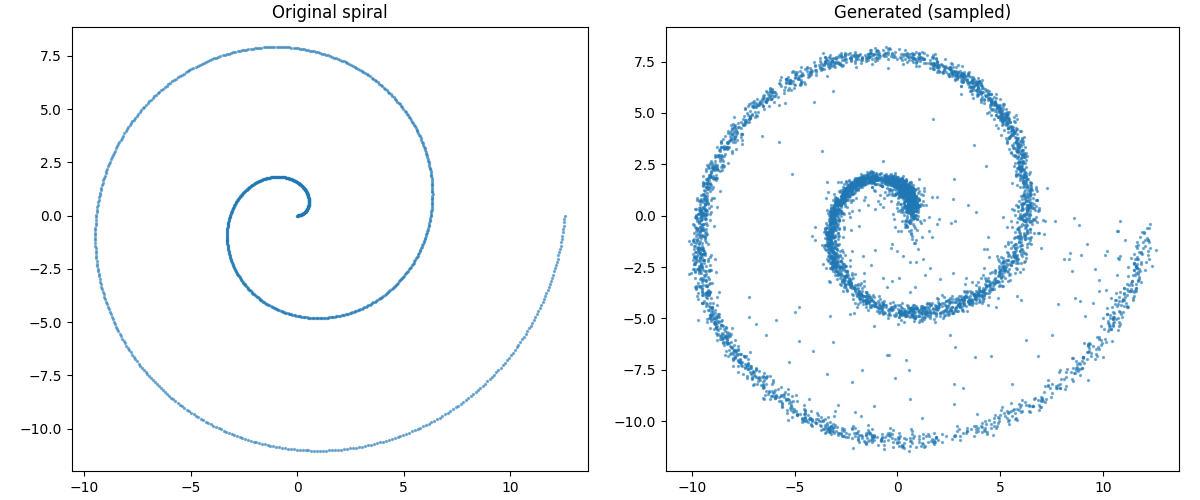
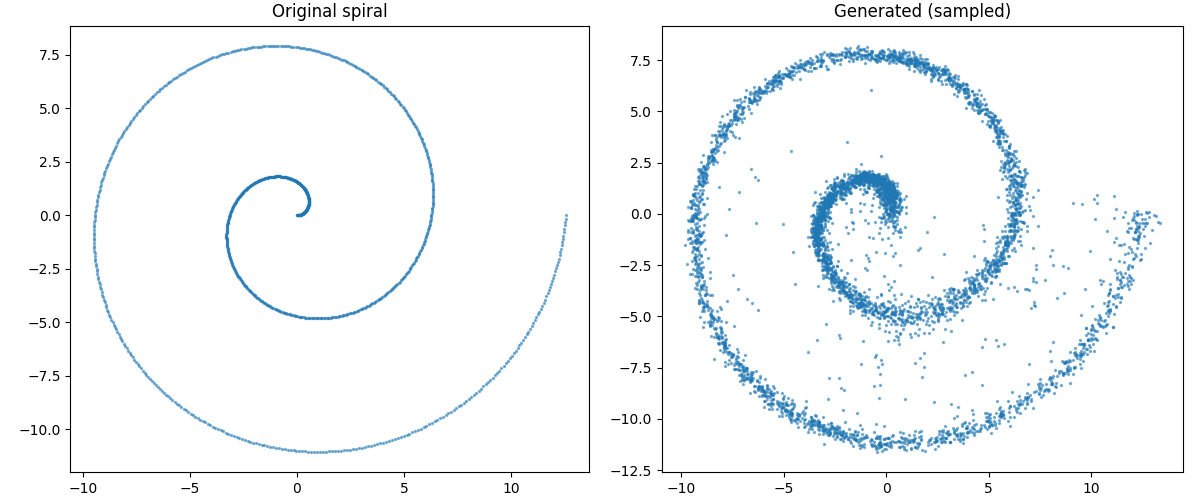
MNIST diffusion added

diff --git a/diffusion_MNIST/main.py b/diffusion_MNIST/main.py
@@ -1,0 +1,153 @@
+import torch 
+from torch.utils.data import DataLoader
+import torchvision
+from torchvision import transforms
+import torch.nn as nn
+import torch.nn.functional as F
+import math
+import matplotlib.pyplot as plot
+
+device = 'cuda' if torch.cuda.is_available() else 'mps' if torch.backends.mps.is_available() else 'cpu'
+
[email redacted]_grad()
+def sample(model, alpha_bars, T = 1000,num_samples = 10):
+    betas = torch.linspace(0.0001, 0.02, T).to(device)
+    alphas = 1.0 - betas
+    x_t = torch.randn(size=(num_samples,1,28,28)).to(device)
+
+    for t in reversed(range(T)):
+        t_batch = torch.full((num_samples,), t, dtype=torch.long).to(device)
+        eps_pred = model(x_t, t_batch)
+        z = torch.randn_like(x_t) if t > 0 else 0
+        x_t = (1/torch.sqrt(alphas[t])) * (x_t - (betas[t]/torch.sqrt(1 - alpha_bars[t])) * eps_pred) + torch.sqrt(betas[t]) * z
+
+    return x_t
+
+
+def sinusoidal_embedding(t, dim=32):
+    half_dim = dim // 2
+    freqs = torch.exp(-math.log(10000) * torch.arange(half_dim) / half_dim).to(device)
+    args = t[:, None] * freqs[None, :]
+    return torch.cat([torch.sin(args), torch.cos(args)], dim=-1)
+
+def forward_diffusion(x_0, t, alpha_bars): # for each batch
+    """
+    Add noise to x_0 at timestep t.
+    Returns: x_t (noised data), epsilon (the noise that was added)
+    alpha_bars -> [B]
+    """
+    # Use the formula: x_t = sqrt(alpha_bar_t) * x_0 + sqrt(1 - alpha_bar_t) * eps
+    epsilon = torch.randn_like(x_0) # B, 1, 28, 28
+    x_t = torch.sqrt(alpha_bars[t][:, None, None, None]) * x_0 + torch.sqrt(1 - alpha_bars[t][:, None,None,None]) * epsilon
+    return x_t, epsilon
+
+def get_noise_schedule(T=1000):
+    """Return alpha_bar for each timestep 0..T-1"""
+    betas = torch.linspace(0.0001, 0.02, T)
+    alphas = 1.0 - betas
+    alpha_bars = torch.cumprod(alphas, dim=0).to(device)
+    return alpha_bars
+
+class SimpleUNet(nn.Module):
+    def __init__(self, time_emb_dim=32):
+        super().__init__()
+        self.ec1 = nn.Conv2d(1 , 32, 3, stride=2, padding=1)
+        self.ec2 = nn.Conv2d(32, 64, 3, stride=2, padding=1)
+        self.bottleneck = nn.Conv2d(64,64,3, padding=1)
+        self.dec1 = nn.ConvTranspose2d(128,32, 4, stride = 2, padding = 1) # because of skip connections
+        self.dec2 = nn.ConvTranspose2d(64 ,1 , 4, stride = 2, padding = 1) # because of skip connections
+        self.time_mlp_64 = nn.Sequential(
+            nn.Linear(time_emb_dim, 64),
+            nn.ReLU(),
+            nn.Linear(64, 64)
+        )
+        self.time_mlp_32 = nn.Sequential(
+            nn.Linear(time_emb_dim, 32),
+            nn.ReLU(),
+            nn.Linear(32, 32)
+        )
+
+    def forward(self,x,t):
+        emb = sinusoidal_embedding(t)
+        t_emb_32 = self.time_mlp_32(emb)
+        t_emb_64 = self.time_mlp_64(emb)
+        x1 = F.relu(self.ec1(x) + t_emb_32[:,:,None,None])
+        x2 = F.relu(self.ec2(x1) + t_emb_64[:,:,None,None])
+        x3 = F.relu(self.bottleneck(x2) + t_emb_64[:,:,None,None])
+        x4 = F.relu(self.dec1(torch.cat([x3,x2],dim=1)) + t_emb_32[:,:,None,None])
+        x5 = self.dec2(torch.cat([x4,x1],dim=1))
+        return x5
+
+if __name__ == '__main__':
+    dataset = torchvision.datasets.MNIST(
+        root='./data', train=True, download=True,
+        transform=transforms.Compose([
+        transforms.ToTensor(),
+        transforms.Normalize((0.5,), (0.5,))
+  ])
+        
+    )
+    dataloader = DataLoader(dataset, batch_size=128, shuffle=True, num_workers=4, pin_memory=True)
+    alpha_bars = get_noise_schedule()
+
+    # images, labels = next(iter(dataloader))
+
+    # Visualize forward diffusion on 3 images across 5 timesteps
+    # timesteps = [0, 10, 50, 100, 150, 199]
+    # num_images = 3
+    # fig, axes = plot.subplots(num_images, len(timesteps), figsize=(15, 9))
+
+    # for row in range(num_images):
+    #     img = images[row]  # [1, 28, 28]
+    #     for col, t in enumerate(timesteps):
+    #         t_tensor = torch.tensor([t])
+    #         x_t, _ = forward_diffusion(img.unsqueeze(0), t_tensor, alpha_bars)
+    #         axes[row, col].imshow(x_t.squeeze().numpy(), cmap='gray')
+    #         axes[row, col].set_title(f't={t}')
+    #         axes[row, col].axis('off')
+
+    # plot.tight_layout()
+    # plot.savefig('diffusion_MNIST/forward_diffusion.png')
+    # plot.show()
+
+    model = SimpleUNet().to(device)
+    optimizer = torch.optim.Adam(model.parameters(), lr = 2e-4)
+    num_epochs = 50
+
+    for epoch in range(num_epochs):
+        total_loss = 0
+        for batch, _ in dataloader:
+            batch = batch.to(device)
+            t = torch.randint(0,999,size = (len(batch),)).to(device)
+            x_t, epsilon = forward_diffusion(batch, t, alpha_bars)
+            epsilon_pred = model(x_t, t)
+            loss = F.mse_loss(epsilon_pred, epsilon)
+            total_loss += loss.item()
+            optimizer.zero_grad(set_to_none=True)
+            loss.backward()
+            optimizer.step()
+
+        if(epoch % 1 == 0) :
+                print(f"Epoch : {epoch} | Loss: {total_loss / len(dataloader)}")
+
+        # generate and plot
+    generated = sample(model, alpha_bars).cpu()  # [10, 1, 28, 28]
+
+    fig, axes = plot.subplots(1, 10, figsize=(20, 2))
+    for i in range(10):
+        axes[i].imshow(generated[i, 0].numpy(), cmap='gray')
+        axes[i].axis('off')
+    plot.suptitle('Generated MNIST digits')
+    plot.tight_layout()
+    plot.savefig('diffusion_MNIST/generated_digits.png')
+    plot.show()
+
+
+
+
+
+
+
+
+    
+    